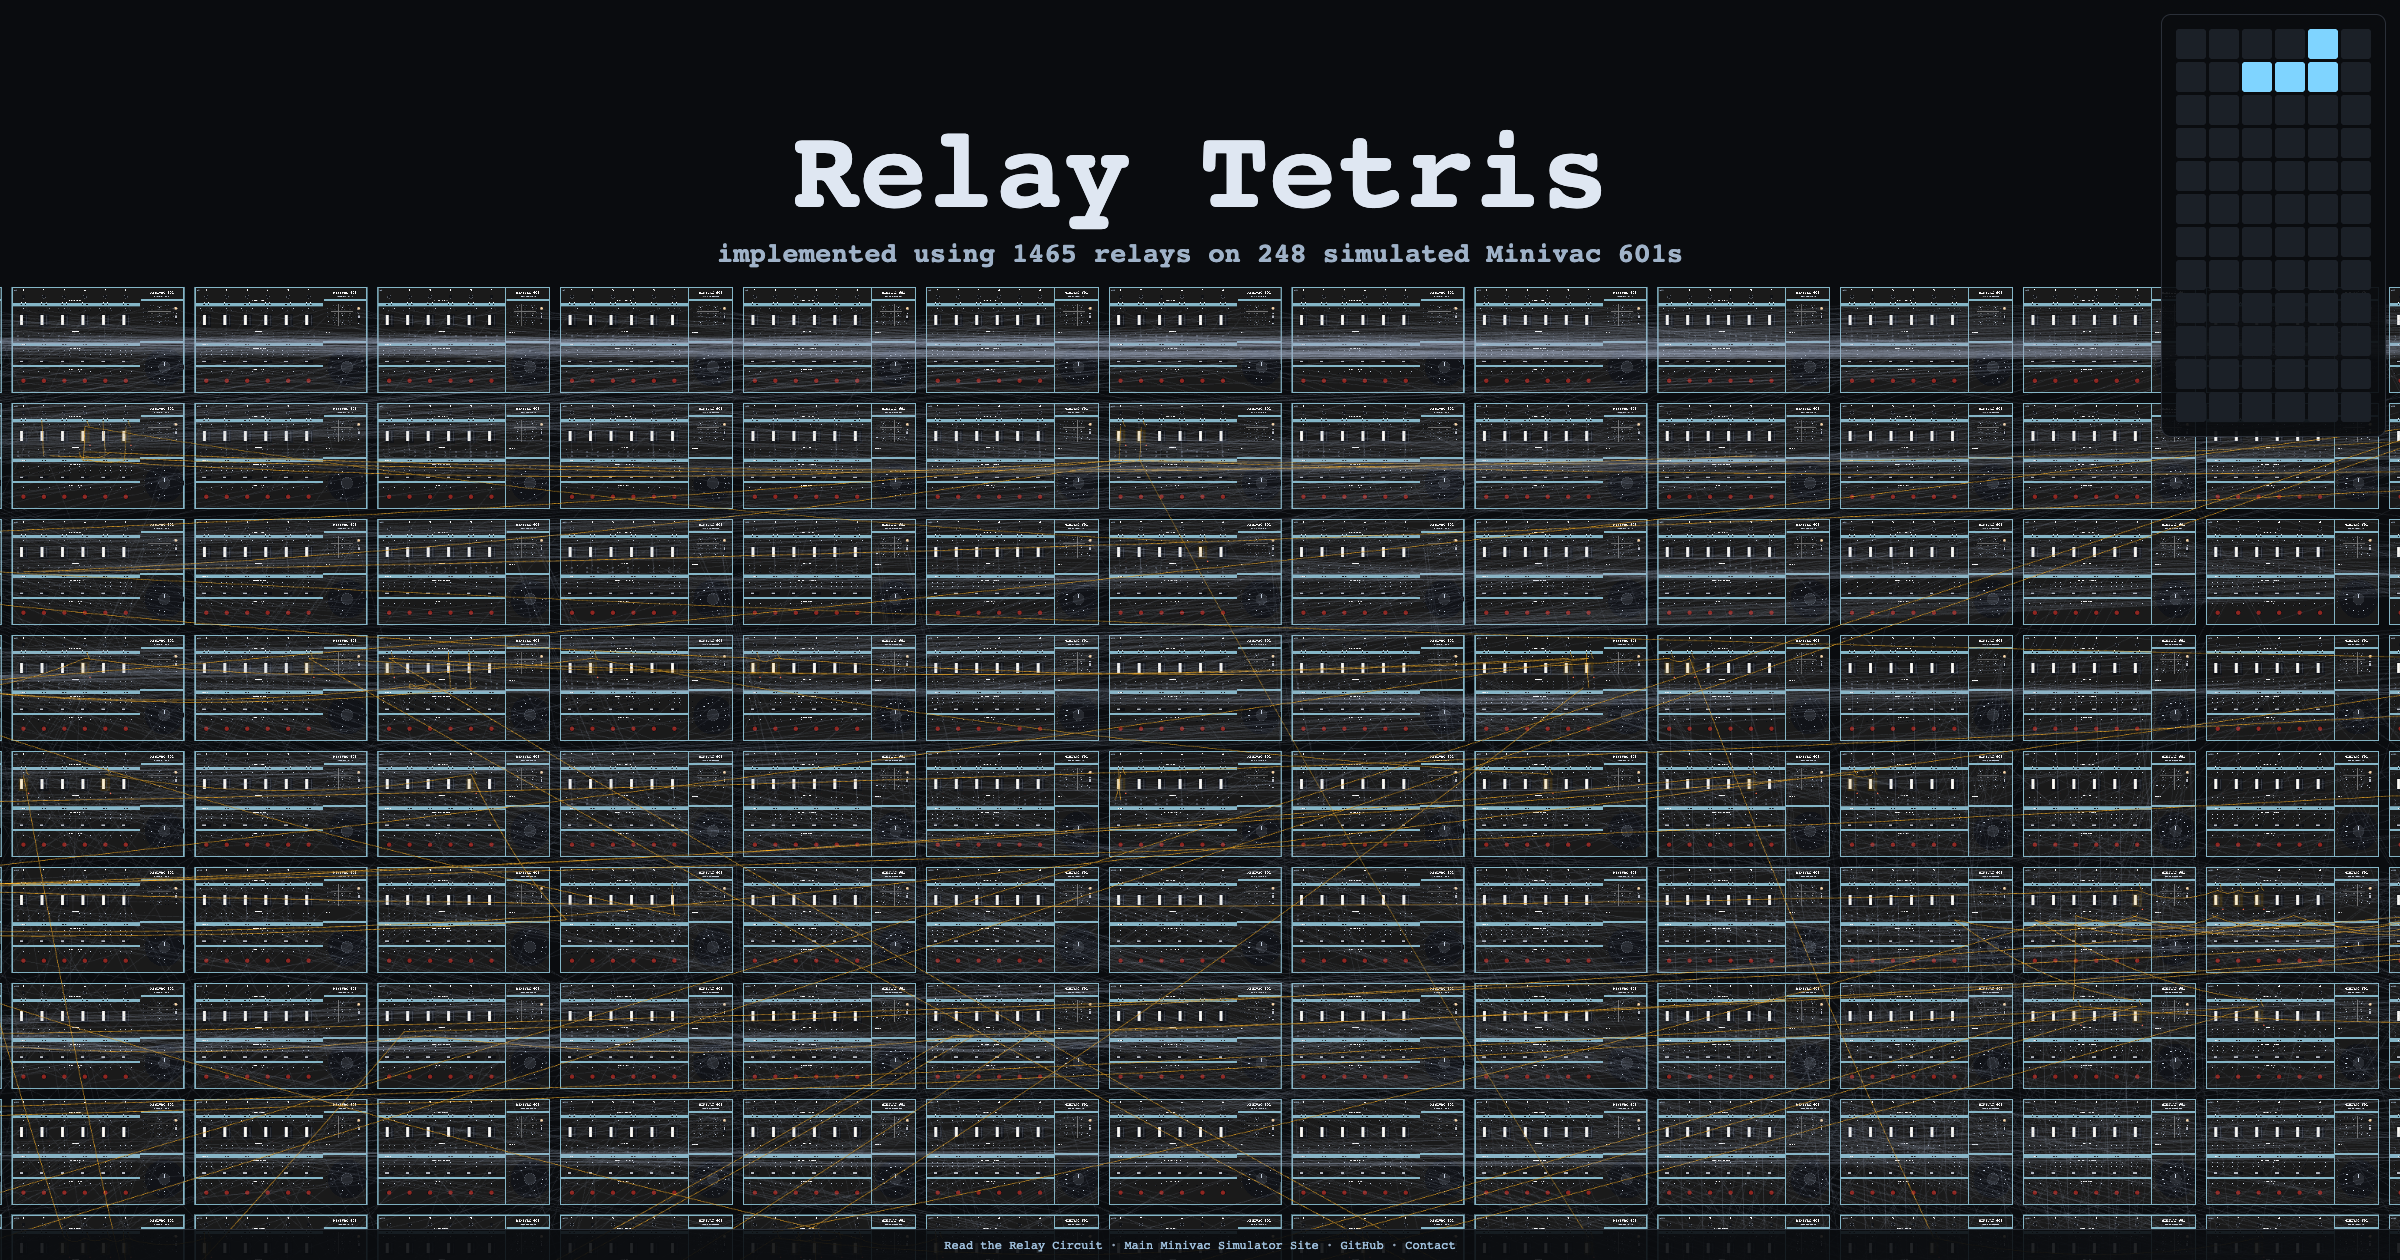
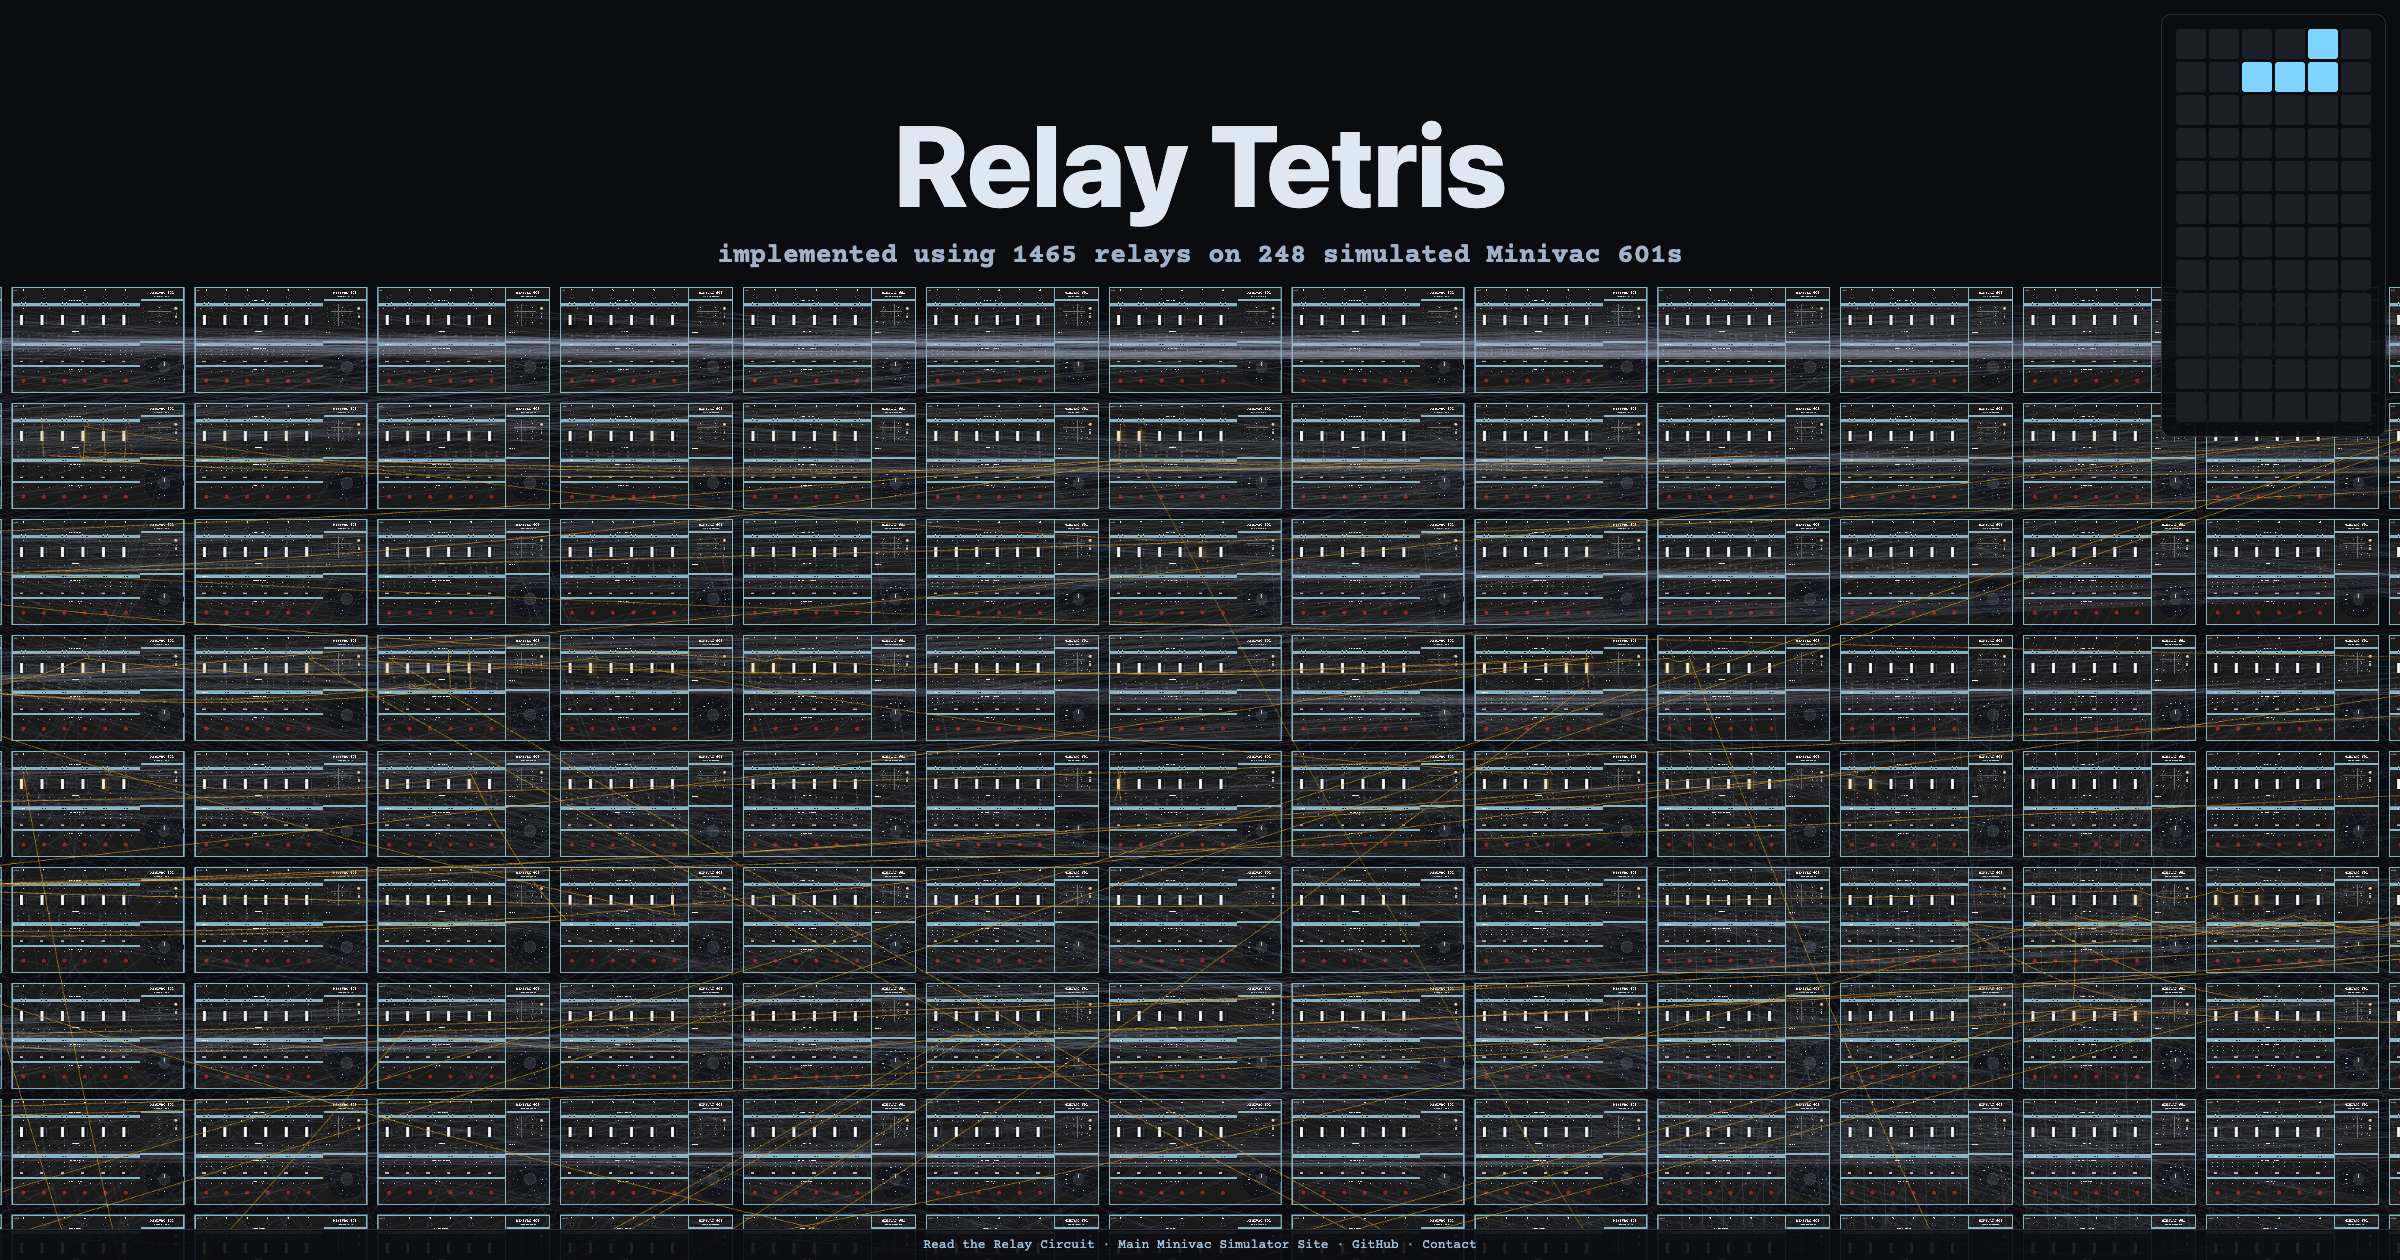
wall title: the system sans stack (user's own pick after trying it in devtools) - canvas headline ui-sans-serif/system-ui at 800; oswald dropped from the font link; og-wall.png reshot with the real faces and the blue piece

Changed region(s): [[0.3125, 0.0929, 0.6875, 0.2167], [0.4062, 0.9595, 0.5312, 0.9905], [0.5625, 0.9595, 0.5938, 0.9905]]

diff --git a/wall.html b/wall.html
@@ -16,7 +16,7 @@
     <meta name="twitter:card" content="summary_large_image" />
     <link rel="preconnect" href="https://fonts.googleapis.com" />
     <link rel="preconnect" href="https://fonts.gstatic.com" crossorigin />
-    <link href="https://fonts.googleapis.com/css2?family=Oswald:wght@500;700&family=Courier+Prime:wght@400;700&display=swap" rel="stylesheet" />
+    <link href="https://fonts.googleapis.com/css2?family=Courier+Prime:wght@400;700&display=swap" rel="stylesheet" />
     <style>html,body{margin:0;height:100%;overflow:hidden;background:#0a0c0f}</style>
   </head>
   <body>

diff --git a/src/wall-main.ts b/src/wall-main.ts
@@ -625,7 +625,7 @@ function draw() {
   // the giant line above all the minivacs (user copy), real counts
   ctx.fillStyle = '#dfe7f2';
   ctx.textAlign = 'center';
-  ctx.font = `700 ${Math.round(TITLE_H / 2.4)}px Oswald, 'Arial Narrow', sans-serif`;
+  ctx.font = `800 ${Math.round(TITLE_H / 2.4)}px ui-sans-serif, system-ui, sans-serif`;
   ctx.fillText('Relay Tetris', WORLD_W / 2, -TITLE_H * 0.29);
   ctx.font = `700 ${Math.round(TITLE_H / 10)}px 'Courier Prime', Courier, monospace`;
   ctx.fillStyle = '#9fb2c8';
